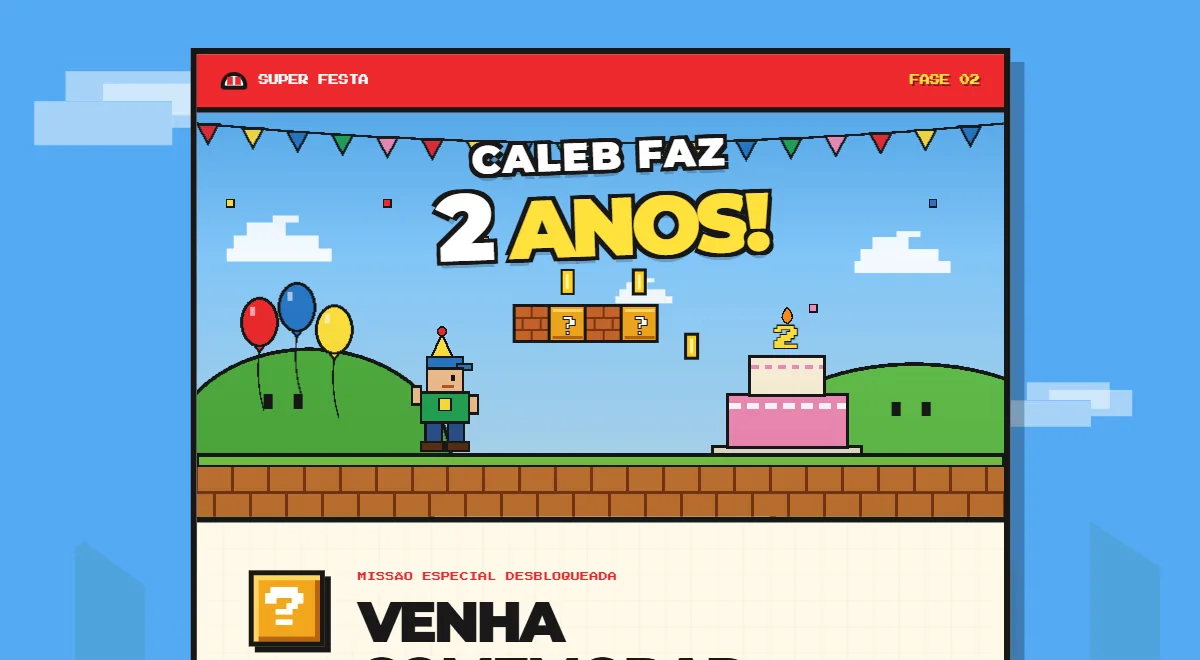
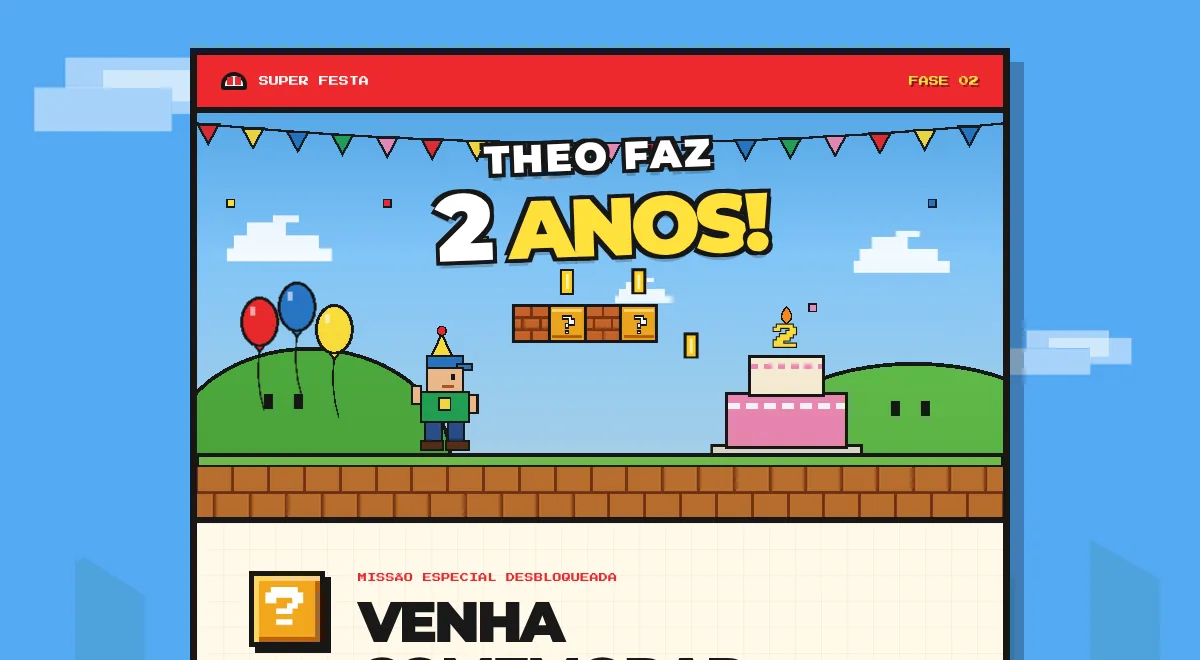
fix: atualiza o projeto do convite após renomear o repositório
O repositório convite-aniversario-caleb passou a se chamar convite-aniversario.
Atualiza título, descrição, links do repositório e da página e a captura,
que agora usa o nome fictício.

Claude-Session: https://claude.ai/code/session_015UW9H23Y5YziQ2LDYCqLKZ

diff --git a/src/sections/Projects/ProjectShowcaseConvite.test.tsx b/src/sections/Projects/ProjectShowcaseConvite.test.tsx
@@ -3,9 +3,9 @@ import { describe, expect, it } from 'vitest'
 import { projects } from '../../data/projects'
 import { Projects } from './Projects'
 
-const TITLE = 'convite-aniversario-caleb'
+const TITLE = 'convite-aniversario'
 const CONVITE_ALT =
-  'Captura do topo do convite: cena em pixel art com bandeirinhas, balões, uma criança de chapéu de festa e um bolo com o número 2, sob o título “Caleb faz 2 anos!”'
+  'Captura do topo do convite: cena em pixel art com bandeirinhas, balões, uma criança de chapéu de festa e um bolo com o número 2, sob o título “Theo faz 2 anos!”'
 
 function conviteArticle() {
   render(<Projects />)
@@ -40,18 +40,18 @@ describe('Vitrine do convite de aniversário', () => {
   it('tem links para o repositório e para a página publicada, em nova aba', () => {
     const article = conviteArticle()
     const repo = within(article).getByRole('link', {
-      name: /Repositório\s*do projeto convite-aniversario-caleb/,
+      name: /Repositório\s*do projeto convite-aniversario/,
     })
     const demo = within(article).getByRole('link', {
-      name: /Ver página\s*do projeto convite-aniversario-caleb/,
+      name: /Ver página\s*do projeto convite-aniversario/,
     })
     expect(repo).toHaveAttribute(
       'href',
-      'https://github.com/Johnydu/convite-aniversario-caleb',
+      'https://github.com/Johnydu/convite-aniversario',
     )
     expect(demo).toHaveAttribute(
       'href',
-      'https://johnydu.github.io/convite-aniversario-caleb/',
+      'https://johnydu.github.io/convite-aniversario/',
     )
     for (const link of [repo, demo]) {
       expect(link).toHaveAttribute('target', '_blank')

diff --git a/src/data/projects.ts b/src/data/projects.ts
@@ -87,9 +87,9 @@ export const projects: readonly Project[] = [
     },
   },
   {
-    title: 'convite-aniversario-caleb',
+    title: 'convite-aniversario',
     description:
-      'Convite digital interativo para o aniversário de 2 anos do Caleb, com tema de jogo retrô em pixel art. O convidado informa quantos adultos e crianças vão, confirma a presença pelo WhatsApp com a mensagem pronta e abre a rota no Google Maps ou no Waze.',
+      'Convite digital interativo de aniversário infantil, com tema de jogo retrô em pixel art e dados da festa configuráveis. O convidado informa quantos adultos e crianças vão, confirma a presença pelo WhatsApp com a mensagem pronta e abre a rota no Google Maps ou no Waze.',
     technologies: [
       'React',
       'TypeScript',
@@ -98,12 +98,12 @@ export const projects: readonly Project[] = [
       'SVG',
       'GitHub Actions',
     ],
-    repoUrl: 'https://github.com/Johnydu/convite-aniversario-caleb',
-    demoUrl: 'https://johnydu.github.io/convite-aniversario-caleb/',
+    repoUrl: 'https://github.com/Johnydu/convite-aniversario',
+    demoUrl: 'https://johnydu.github.io/convite-aniversario/',
     showcase: {
       media: {
         src: conviteMedia,
-        alt: 'Captura do topo do convite: cena em pixel art com bandeirinhas, balões, uma criança de chapéu de festa e um bolo com o número 2, sob o título “Caleb faz 2 anos!”',
+        alt: 'Captura do topo do convite: cena em pixel art com bandeirinhas, balões, uma criança de chapéu de festa e um bolo com o número 2, sob o título “Theo faz 2 anos!”',
         width: 1200,
         height: 660,
       },
